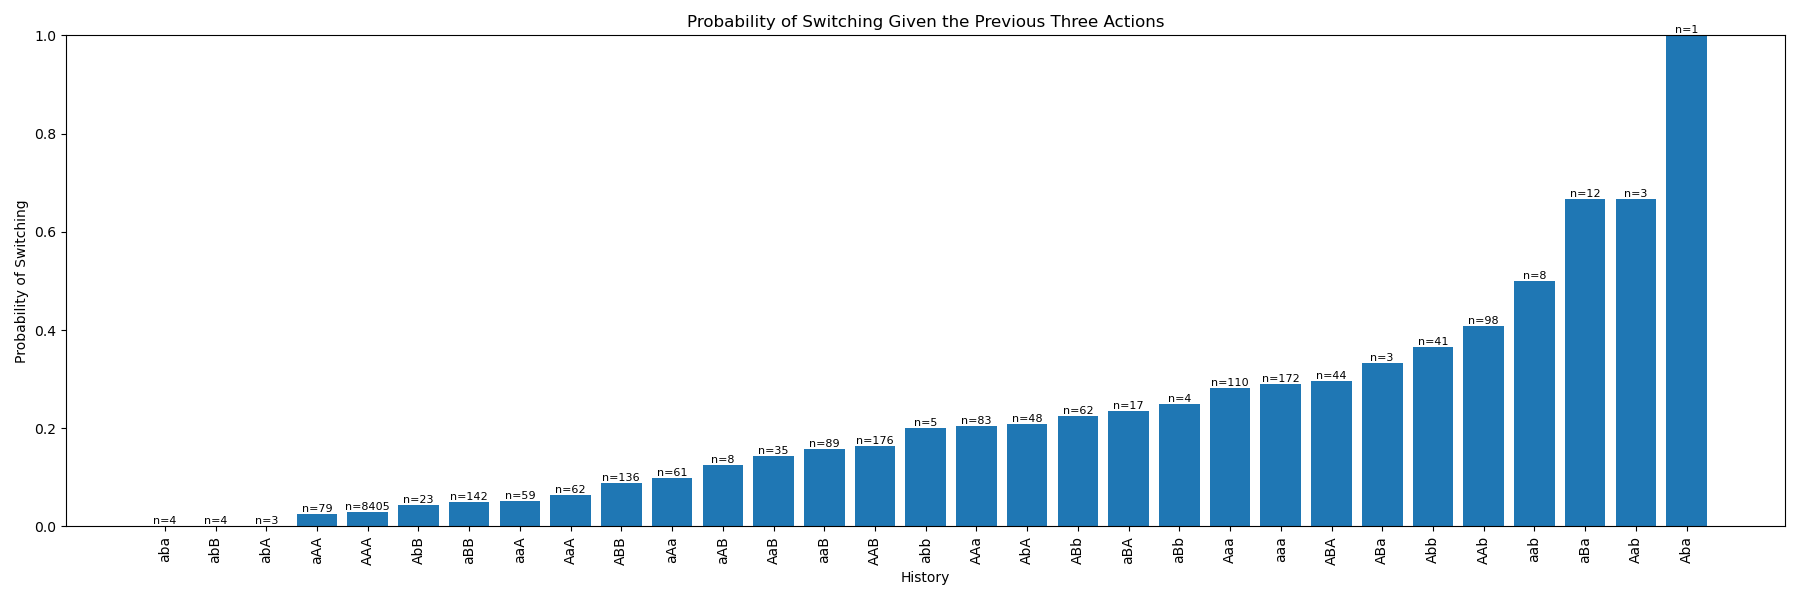
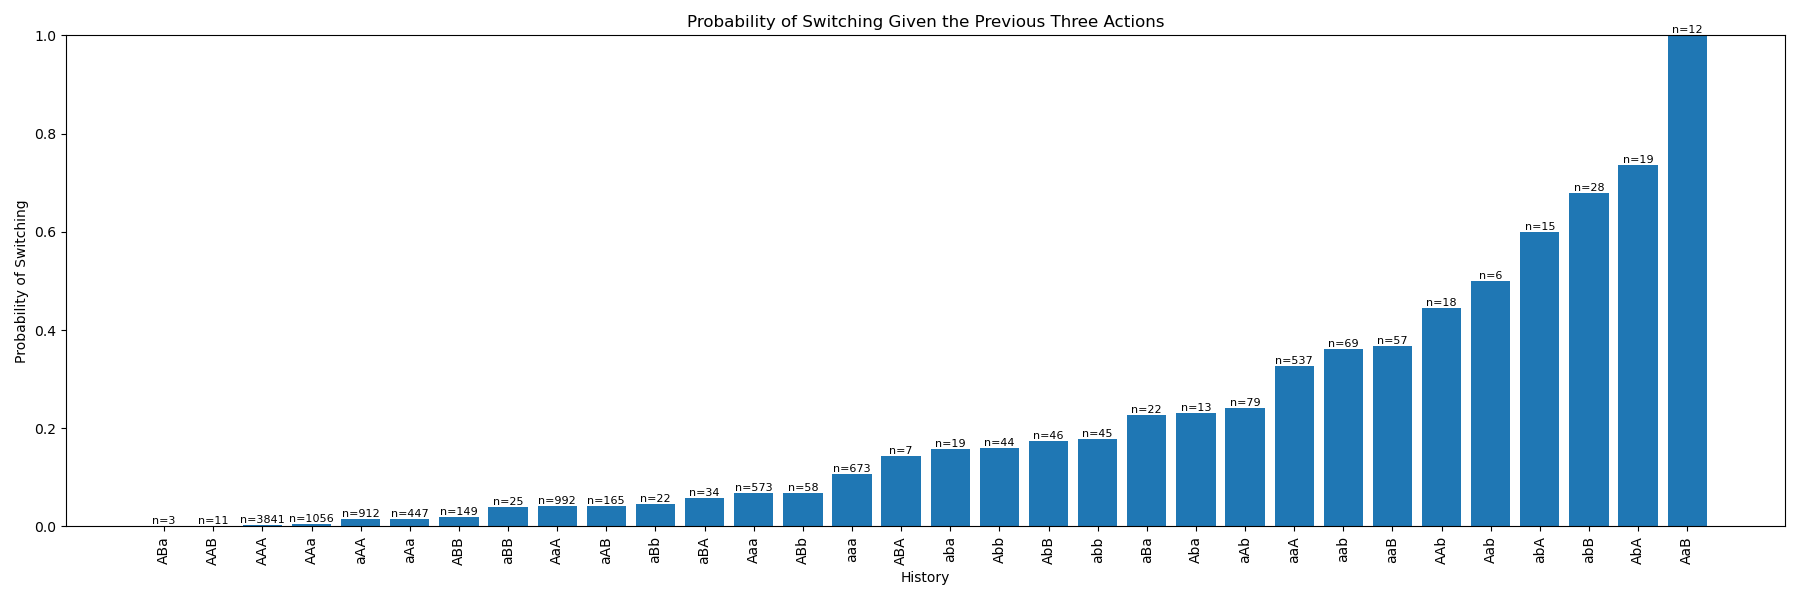
evaluate transformer outputs

Changed region(s): [[0.0622, 0.24, 0.9644, 0.96]]

diff --git a/transformer/inference/graphs_transformer_vs_ground_truth.py b/transformer/inference/graphs_transformer_vs_ground_truth.py
@@ -11,16 +11,7 @@ def parse_file(filename):
     - filename (str): The file path of the ground truth data file.
 
     Returns:
-    - events (list): A list of dictionaries with keys:
-        - 'trial_number'
-        - 'choice' (0 for left, 1 for right)
-        - 'choice_str' ('L' or 'R')
-        - 'reward' (1 for rewarded, 0 for unrewarded)
-        - 'rewarded' (True or False)
-        - 'selected_high' (1 if high-reward spout selected, 0 otherwise)
-        - 'switch' (1 if switched from last choice, 0 otherwise)
-        - 'swap' (1 if swap occurred on this trial, 0 otherwise)
-        - 'block_position' (position relative to last swap)
+    - events (list): A list of dictionaries with keys as described earlier.
     """
     events = []
     last_choice = None
@@ -60,9 +51,6 @@ def parse_file(filename):
                     else:
                         switch = 0  # No switch on first trial
 
-                    # Calculate block_position relative to last swap
-                    block_position = trial_number - last_swap_trial
-
                     # Record the event
                     event = {
                         'trial_number': trial_number,
@@ -73,7 +61,7 @@ def parse_file(filename):
                         'selected_high': selected_high,
                         'switch': switch,
                         'swap': 1 if trial_number in swap_trials else 0,
-                        'block_position': block_position
+                        'block_position': [trial_number - last_swap_trial]  # Store as list to hold multiple positions
                     }
 
                     events.append(event)
@@ -89,9 +77,11 @@ def parse_file(filename):
         for i in range(1, min(11, swap_trial + 1)):
             idx = swap_trial - i
             if idx >= 0:
-                events[idx]['block_position'] = -i
+                events[idx]['block_position'].append(-i)  # Add negative block position
+                # events[idx]['block_position'] = [-i]
 
     return events
+
 
 def read_predictions(filename):
     """
@@ -119,8 +109,9 @@ def align_events_with_predictions(events, predictions):
 
     Returns:
     - events (list): The updated events with predictions and adjusted switches.
+    - predictions (list): The updated predictions, matching the length of events.
     """
-    # Ensure the sequences are of the same length
+    # Ensure the sequences are of the same length by adjusting predictions
     min_length = min(len(events), len(predictions))
     events = events[:min_length]
     predictions = predictions[:min_length]
@@ -157,10 +148,10 @@ def align_events_with_predictions(events, predictions):
         last_ground_truth_choice = event['choice']  # Update for next iteration
 
     return events
-
 def calculate_probabilities(events):
     """
-    Calculate probabilities for high-reward selection and switching around block transitions.
+    Calculate probabilities for high-reward selection and switching around block transitions,
+    considering both positive and negative block positions.
 
     Args:
     - events (list): The parsed events from the data file.
@@ -168,16 +159,23 @@ def calculate_probabilities(events):
     Returns:
     - block_positions (list): Block positions relative to swaps.
     - high_reward_prob (list): Probability of selecting the high-reward port.
-    - switch_prob (list): Probability of switching sides (left to right or vice versa).
+    - switch_prob (list): Probability of switching sides.
     """
-    block_positions = list(range(-10, 21))
+    block_positions = list(range(-10, 21))  # This range includes both negative and positive
     high_reward_prob = []
     switch_prob = []
 
     for pos in block_positions:
-        selected_high = [event['selected_high'] for event in events if event['block_position'] == pos]
-        switches = [event['switch'] for event in events if event['block_position'] == pos]
+        selected_high = []
+        switches = []
 
+        # Gather probabilities for both positive and negative positions
+        for event in events:
+            if pos in event['block_position']:  # If the position (either positive or negative) is in the list
+                selected_high.append(event['selected_high'])
+                switches.append(event['switch'])
+
+        # Calculate probabilities for each block position
         if selected_high:
             high_reward_prob.append(np.mean(selected_high))
         else:
@@ -189,6 +187,7 @@ def calculate_probabilities(events):
             switch_prob.append(np.nan)  # Use NaN for positions with no data
 
     return block_positions, high_reward_prob, switch_prob
+
 
 def plot_probabilities(block_positions, high_reward_prob, switch_prob):
     """
@@ -211,7 +210,7 @@ def plot_probabilities(block_positions, high_reward_prob, switch_prob):
     plt.ylim(0, 1)  # Adjust y-axis limits as needed
     plt.grid(True)
     plt.tight_layout()
-    plt.savefig(f'../graphs/{rflr}_G_selecting high-reward port.png')
+    plt.savefig(f'../../graphs/{rflr}_G_selecting high-reward port.png')
     # plt.show()
     # Plot P(switch)
     plt.figure(figsize=(10, 5))
@@ -224,7 +223,7 @@ def plot_probabilities(block_positions, high_reward_prob, switch_prob):
     plt.ylim(0, max(switch_prob) * 1.1)  # Adjust y-axis limits based on data
     plt.grid(True)
     plt.tight_layout()
-    plt.savefig(f'../graphs/{rflr}_G_switch probabilities.png')
+    plt.savefig(f'../../graphs/{rflr}_G_switch probabilities.png')
     # plt.show()
 
 def map_sequence_to_pattern(seq):
@@ -339,7 +338,7 @@ def plot_switch_probabilities(patterns, probabilities, counts):
     plt.xticks(rotation=90)
     plt.ylim(0, 1)
     plt.tight_layout()
-    plt.savefig(f'../graphs/{rflr}_F_conditional switching.png')
+    plt.savefig(f'../../graphs/{rflr}_F_conditional switching.png')
     # plt.show()
 
 # Main code
@@ -349,24 +348,27 @@ ground_truth = False
 if ground_truth:
     rflr = 'rflr_'
 else:
-    rflr = 'model_92k'
+    rflr = 'model_92K'
 
 # Define the file paths
-ground_truth_file = "../data/2ABT_logistic_run_4.txt"
-predictions_file = "../transformer/inference/Preds_for_4_with_model_92k.txt"
+ground_truth_file = "../../data/2ABT_logistic_run_4.txt"
+predictions_file = "Preds_for_4_with_model_92K.txt"
 
 # Parse the ground truth events
 events = parse_file(ground_truth_file)
 
 # Read predictions
 predictions = read_predictions(predictions_file)
+print(len(events))
+print(len(predictions))
 
 # Align events with predictions and adjust switches
 events = align_events_with_predictions(events, predictions)
 
 # For debugging: print a sample of events
-# for event in events[:30]:
-#     print(event)
+print(len(events))
+for event in events[1000:1030]:
+    print(event)
 
 # Calculate and print the percent of trials with a switch
 total_trials = len(events) - 1  # Exclude the first trial

diff --git a/transformer/inference/evaluate_transfomer_guess.py b/transformer/inference/evaluate_transfomer_guess.py
@@ -40,14 +40,10 @@ print("Ground Truth -> Prediction: Count")
 for (gt_char, pred_char), count in sorted(confusion.items(), key=lambda x: x[1], reverse=True):
     print(f"{gt_char} -> {pred_char}: {count}")
 
-# Function to normalize characters ('R' and 'r' -> 'R', 'L' and 'l' -> 'L')
-def normalize_char(c):
-    return 'R' if c in ['R', 'r'] else 'L' if c in ['L', 'l'] else c
-
 # Calculate accuracy ignoring 'R'-'r' and 'L'-'l' differences
 def calculate_accuracy_ignore_case(ground_truth, predictions):
     correct = sum(
-        normalize_char(gt) == normalize_char(pred) 
+        gt.upper() == pred.upper()
         for gt, pred in zip(ground_truth, predictions)
     )
     return correct / len(ground_truth)
@@ -58,22 +54,22 @@ print(f"\nAdjusted Accuracy (ignoring 'R'-'r' and 'L'-'l' differences): {adjuste
 
 # Calculate switch percentage between 'R'/'r' and 'L'/'l'
 def calculate_switch_percentage_with_gt(predictions, ground_truth):
-    normalized_preds = [normalize_char(c) for c in predictions]
-    normalized_gt = [normalize_char(c) for c in ground_truth]
+    upper_preds = [c.upper() for c in predictions]
+    upper_gt = [c.upper() for c in ground_truth]
     switches = sum(
-        1 for i in range(1, len(normalized_preds))
-        if normalized_preds[i] != normalized_gt[i - 1]
+        1 for i in range(1, len(upper_preds))
+        if upper_preds[i] != upper_gt[i - 1]
     )
-    total_transitions = len(normalized_preds) - 1
+    total_transitions = len(upper_preds) - 1
     return (switches / total_transitions) * 100 if total_transitions > 0 else 0
 
 def calculate_switch_percentage_within_gt(ground_truth):
-    normalized_gt = [normalize_char(c) for c in ground_truth]
+    upper_gt = [c.upper() for c in ground_truth]
     switches = sum(
-        1 for i in range(1, len(normalized_gt))
-        if normalized_gt[i] != normalized_gt[i - 1]
+        1 for i in range(1, len(upper_gt))
+        if upper_gt[i] != upper_gt[i - 1]
     )
-    total_transitions = len(normalized_gt) - 1
+    total_transitions = len(upper_gt) - 1
     return (switches / total_transitions) * 100 if total_transitions > 0 else 0
 
 

diff --git a/evaluation/graphs_on_trial_block_transitions.py b/evaluation/graphs_on_trial_block_transitions.py
@@ -292,7 +292,7 @@ else:
     rflr = 'model_92K'
 # Define the file path
 # filename = "../transformer/inference/Preds_for_4_with_model_92K.txt"
-filename = "../data/2ABT_logistic_run_3.txt"
+filename = "../data/2ABT_logistic_run_4.txt"
 
 # Parse the file
 events = parse_file(filename)
@@ -307,14 +307,19 @@ percent_switches = (total_switches / (total_trials)) * 100
 
 print(f"Percent of trials with a switch: {percent_switches:.2f}%")
 
+print(len(events))
+for event in events[:100]:
+    print(event)
+
 # Calculate probabilities for block positions
 block_positions, high_reward_prob, switch_prob = calculate_probabilities(events)
 
-# Plot the probabilities
-plot_probabilities(block_positions, high_reward_prob, switch_prob)
+print(len(block_positions), len(high_reward_prob), len(switch_prob))
+# # Plot the probabilities
+# plot_probabilities(block_positions, high_reward_prob, switch_prob)
 
-# Calculate switch probabilities
-sorted_patterns, sorted_probabilities, sorted_counts = calculate_switch_probabilities(events)
+# # Calculate switch probabilities
+# sorted_patterns, sorted_probabilities, sorted_counts = calculate_switch_probabilities(events)
 
-# Plot the switch probabilities
-plot_switch_probabilities(sorted_patterns, sorted_probabilities, sorted_counts)
+# # Plot the switch probabilities
+# plot_switch_probabilities(sorted_patterns, sorted_probabilities, sorted_counts)
